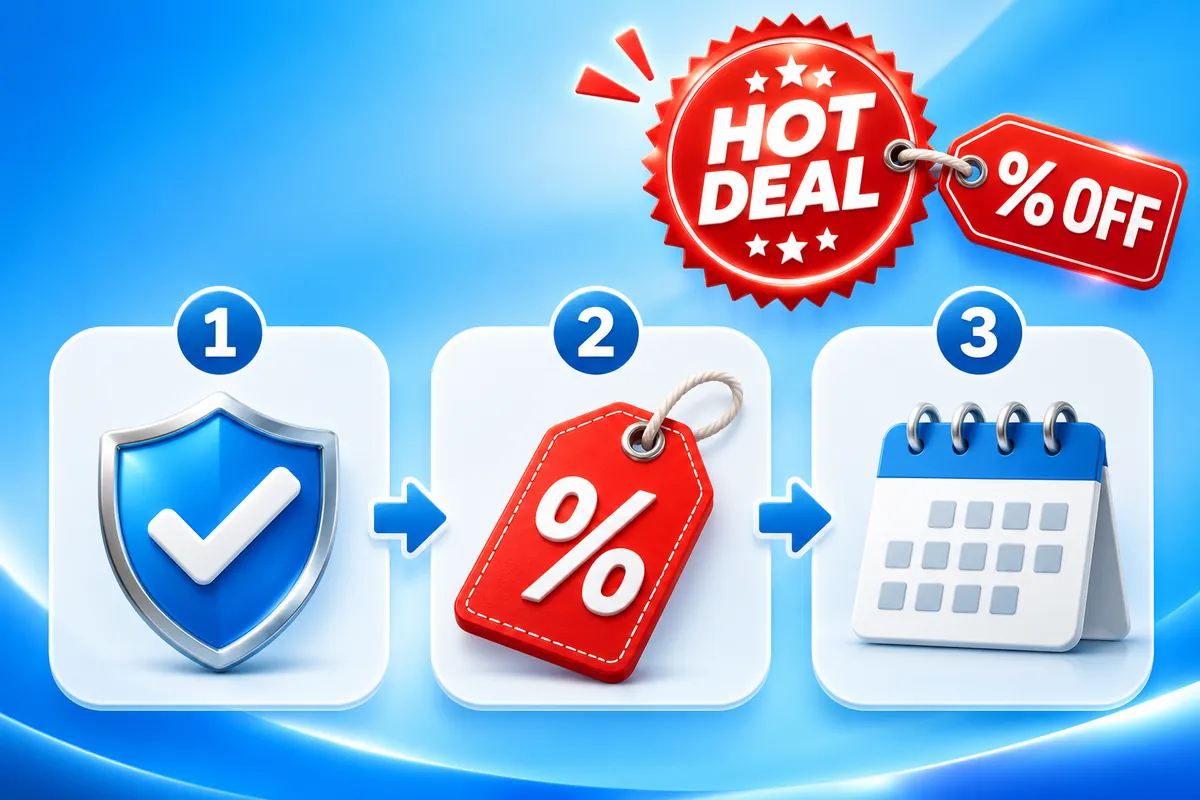
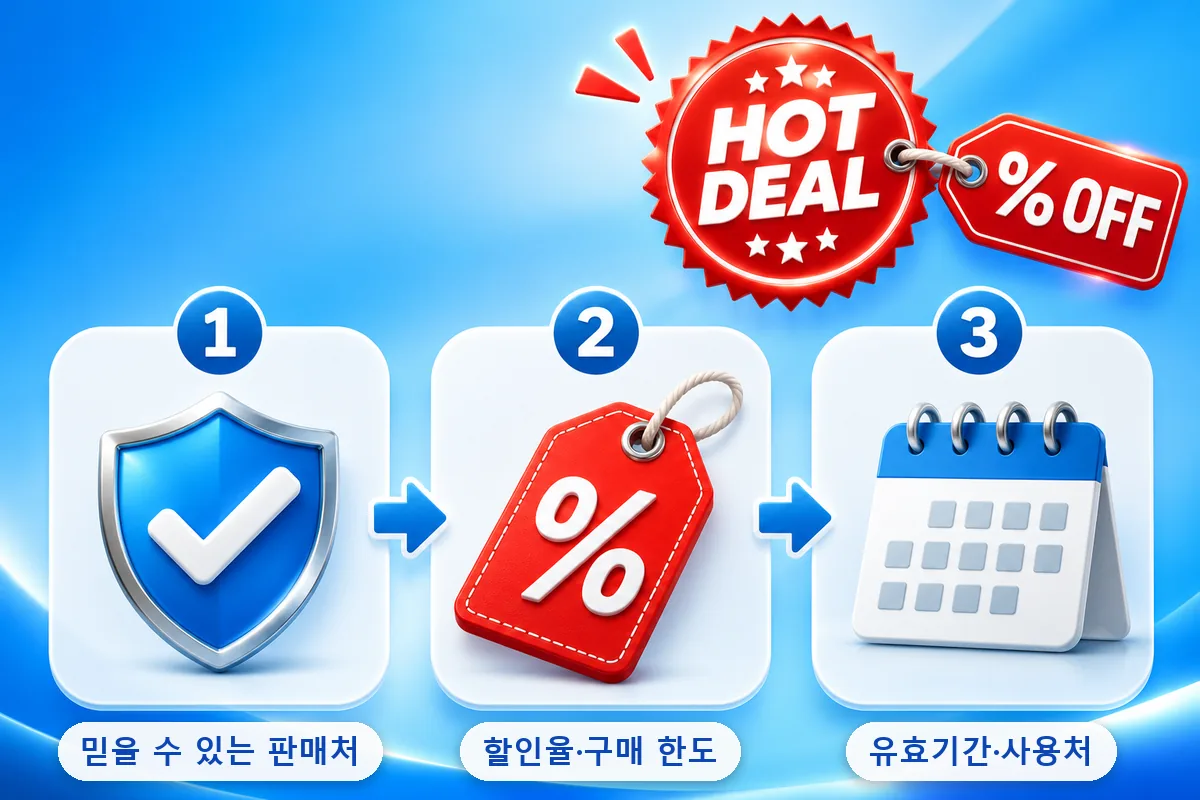
feat: 상품권 핫딜 첫 화면 사진 배경과 3단계 도식 라벨
- 첫 화면(히어로) 배경에 할인 정보 사진 적용, 글자 영역은 흰색으로 덮어 가독성 유지
- 히어로 안 카드를 반투명 처리해 배경이 비치도록 변경
- 별도 사진 띠 배너는 히어로 배경으로 옮겨 화면에서 제거
- 딜 확인 3단계 도식에 단계별 한글 라벨 추가(v=20261119d)

Changed region(s): [[0.0308, 0.875, 0.3392, 1.0], [0.6783, 0.875, 0.9558, 1.0], [0.37, 0.875, 0.6167, 1.0]]

diff --git a/html/상품권딜.html b/html/상품권딜.html
@@ -283,6 +283,19 @@
 
         /* ---- 히어로 (좌: 타이틀·신뢰 포인트 / 우: TOP3·시세 트렌드) ---- */
         .deal_hero { display: grid; grid-template-columns: minmax(0, 1fr) 430px; gap: 26px; align-items: stretch; margin-bottom: 1.6rem; }
+        /* 히어로 배경 사진 — 왼쪽 글자 영역은 흰색으로 덮어 가독성 유지 */
+        .deal_hero {
+            padding: 30px 28px; border-radius: 22px; overflow: hidden;
+            background:
+                linear-gradient(90deg, rgba(255,255,255,.96) 0%, rgba(255,255,255,.93) 50%, rgba(255,255,255,.35) 60%, rgba(255,255,255,.12) 100%),
+                url('/img/seo/deal-hero-bg.webp?v=20261119d') right center / cover no-repeat;
+            box-shadow: 0 4px 24px rgba(17, 24, 39, .06);
+        }
+        /* 배경 사진이 비쳐 보이도록 히어로 안 카드를 반투명 유리 느낌으로 */
+        .deal_hero .hero_card, .deal_hero .trust_points .tp {
+            background: rgba(255,255,255,.92);
+            -webkit-backdrop-filter: blur(10px); backdrop-filter: blur(10px);
+        }
         .hero_eyebrow { display: inline-block; font-size: 1.5rem; font-weight: 700; color: var(--po-color); margin-bottom: 1rem; }
         .deal_hero h1 { display: flex; align-items: center; gap: 12px; flex-wrap: wrap; font-size: 4.4rem; font-weight: 900; letter-spacing: -.02em; line-height: 1.18; margin: 0 0 1.4rem; color: #16181d; }
         .deal_hero h1 .accent { color: var(--po-color); }
@@ -716,6 +729,13 @@
             /* 히어로 2단 → 세로 스택 */
             .deal_hero { grid-template-columns: 1fr; gap: 20px; }
             .deal_hero h1 { font-size: 3.6rem; }
+            .deal_hero {
+                padding: 22px 18px;
+                background:
+                    linear-gradient(180deg, rgba(255,255,255,.7) 0, rgba(255,255,255,.94) 30vw, #fff 66vw),
+                    url('/img/seo/deal-hero-bg.webp?v=20261119d') center top / 100% auto no-repeat,
+                    #fff;
+            }
         }
         @media screen and (max-width: 760px) {
             .cat_chips { top: 72px; }
@@ -942,11 +962,6 @@
 
             <!-- 실측 통계 (실데이터만 표기 — 허수 금지) -->
             <div class="hero_stats" id="heroStats"><!--PR:heroStats--><div class="stat"><b>2곳</b><span>오늘 딜 노출 판매처 · 신뢰 필터 통과</span></div><div class="stat"><b>4종 · 16건</b><span>오늘의 상품권 종류 · 등록 딜</span></div><div class="stat"><b>24회</b><span>매일 자동 갱신 · 매시간 집계</span></div><!--/PR:heroStats--></div>
-
-            <!-- 상품권 핫딜 이미지 배너 (정적, 프리렌더 마커 밖) -->
-            <figure class="deal_photo_banner">
-                <img src="/img/seo/deal-banner.webp?v=20261119c" alt="신용카드를 들고 노트북으로 상품권 할인 상품을 살펴보는 상품권 핫딜 배너" width="1536" height="576" loading="lazy" decoding="async">
-            </figure>
 
             <!-- 채널톡 상담 배너 (1b 다이내믹 그라디언트) — 디자인 원본: banner-1b-embed.html
                  문구·스텝 수정 시 이 블록만 고치면 된다 (프리렌더 마커 밖이라 자동 갱신 영향 없음). -->
@@ -1199,7 +1214,7 @@
                     <span>사기·손실을 피하는 다섯 가지 기본 수칙</span>
                 </div>
                 <figure class="seo_figure seo_figure--deal">
-                    <img src="/img/seo/deal-info.webp?v=20261119c" alt="상품권 딜을 사기 전에 확인할 3단계를 나타낸 흐름도" width="1200" height="800" loading="lazy" decoding="async" style="max-width:100%;height:auto">
+                    <img src="/img/seo/deal-info.webp?v=20261119d" alt="상품권 딜을 사기 전에 확인할 3단계를 나타낸 흐름도" width="1200" height="800" loading="lazy" decoding="async" style="max-width:100%;height:auto">
                     <figcaption>
                         <ol class="seo_labels seo_labels--deal">
                             <li>① 믿을 수 있는 판매처인지 확인</li>
